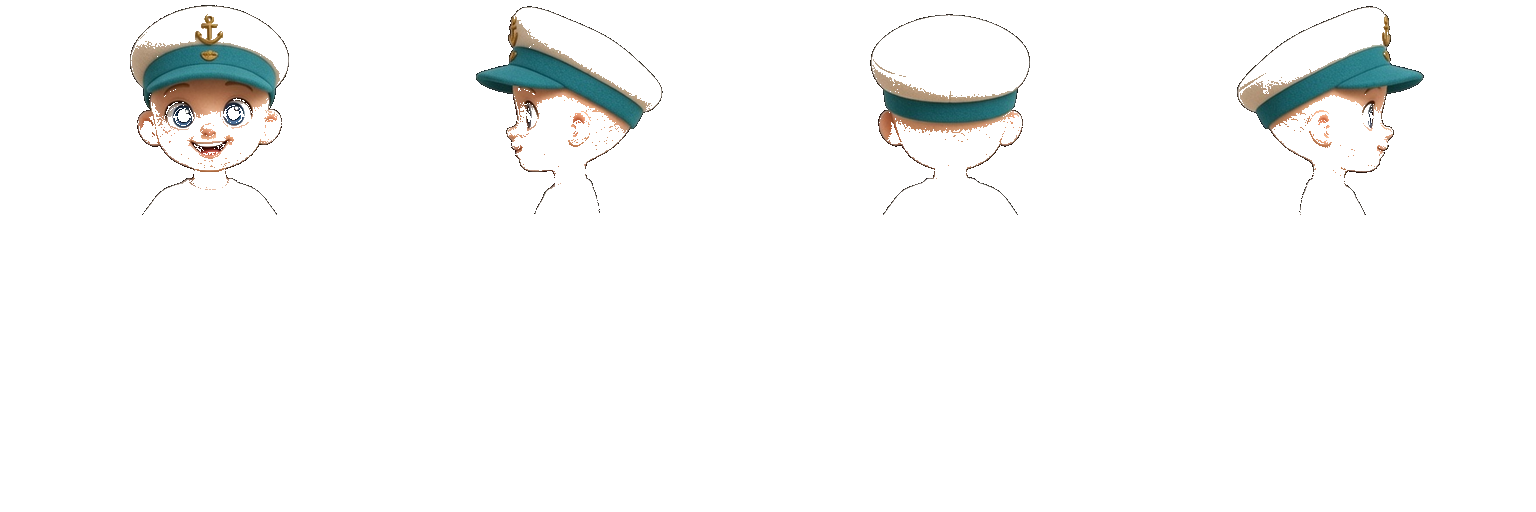
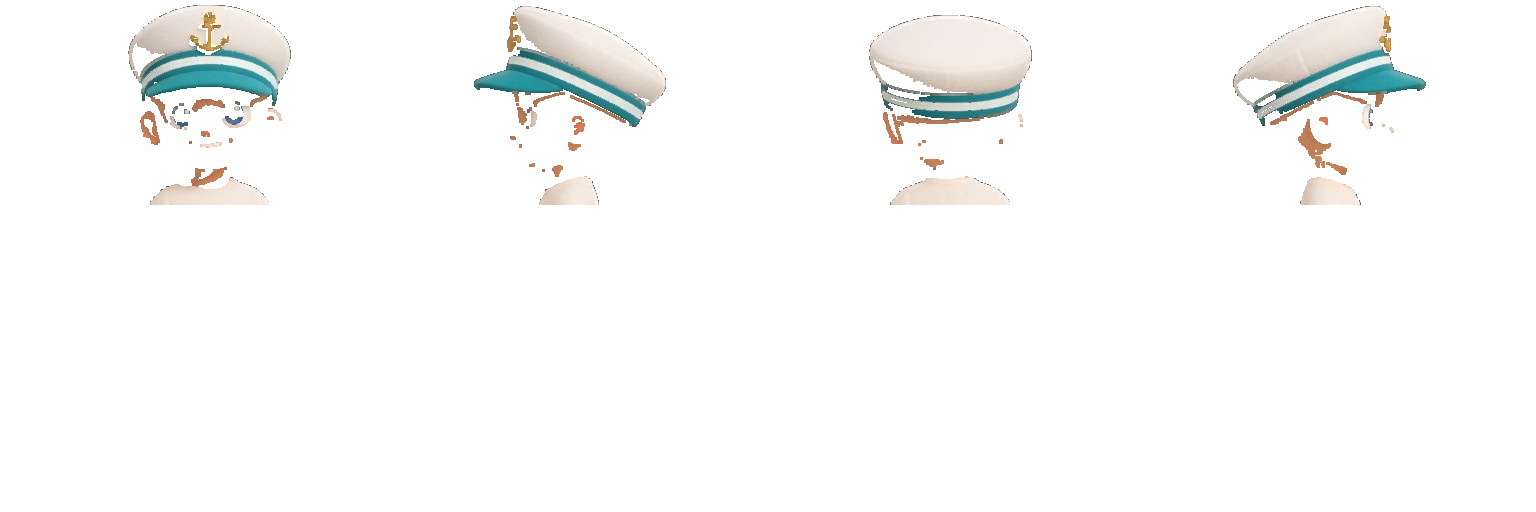
Add doll colour wheels and eight new mix-and-match sets.
Skin and eye chips now stick, plus a free colour wheel. New clothes,
full-head hair, and a complete sailor cap are generated as sheets, not
knocked-out cutouts.

diff --git a/penny-fever/world/paper-dolls.js b/penny-fever/world/paper-dolls.js
@@ -1,5 +1,5 @@
 const ROOT = new URL('../assets/restyle/paper-dolls/', import.meta.url);
-const STORE = 'pf-paper-dolls-v9';
+const STORE = 'pf-paper-dolls-v10';
 const W = 1536, H = 512, CELL = 384;
 const images = new Map();
 const strips = new Map();
@@ -11,16 +11,20 @@ export const SKINS = [
   { id: 'cardboard', label: 'Natural', rgb: null },
   { id: 'fair', label: 'Fair', rgb: [236, 198, 170] },
   { id: 'peach', label: 'Peach', rgb: [224, 172, 132] },
+  { id: 'golden', label: 'Golden', rgb: [210, 154, 96] },
   { id: 'tan', label: 'Tan', rgb: [186, 132, 90] },
+  { id: 'olive', label: 'Olive', rgb: [168, 124, 78] },
   { id: 'brown', label: 'Brown', rgb: [128, 84, 56] },
   { id: 'deep', label: 'Deep', rgb: [78, 50, 36] },
 ];
 export const EYE_COLORS = [
-  { id: 'blue', label: 'Blue', rgb: null },
+  { id: 'blue', label: 'Blue', rgb: [72, 138, 196] },
   { id: 'brown', label: 'Brown', rgb: [86, 52, 32] },
   { id: 'hazel', label: 'Hazel', rgb: [110, 78, 36] },
   { id: 'green', label: 'Green', rgb: [62, 102, 58] },
   { id: 'grey', label: 'Grey', rgb: [96, 104, 112] },
+  { id: 'amber', label: 'Amber', rgb: [176, 112, 36] },
+  { id: 'violet', label: 'Violet', rgb: [96, 72, 150] },
 ];
 export const HAIR_STYLES = [
   { id: 'none', label: 'None' },
@@ -28,6 +32,9 @@ export const HAIR_STYLES = [
   { id: 'bob', label: 'Bob', fit: 'sheet' },
   { id: 'curls', label: 'Curls', fit: 'sheet' },
   { id: 'waves', label: 'Waves', fit: 'sheet' },
+  { id: 'bun', label: 'Bun', fit: 'sheet' },
+  { id: 'braid', label: 'Braid', fit: 'sheet' },
+  { id: 'pixie', label: 'Pixie', fit: 'sheet' },
 ];
 export const HATS = [
   { id: 'none', label: 'None' },
@@ -35,6 +42,9 @@ export const HATS = [
   { id: 'sailor', label: 'Sailor cap' },
   { id: 'rain', label: 'Rain hat' },
   { id: 'crown', label: 'Crown' },
+  { id: 'cowboy', label: 'Cowboy hat' },
+  { id: 'witchhat', label: 'Witch hat' },
+  { id: 'flower', label: 'Flower crown' },
 ];
 export const OUTFITS = [
   { id: 'none', label: 'Undershirt', book: null },
@@ -50,6 +60,14 @@ export const OUTFITS = [
   { id: 'sunday', label: 'Sunday best' },
   { id: 'fortune', label: 'Mystic lilac' },
   { id: 'ballet', label: 'Ballet wrap' },
+  { id: 'cowgirl', label: 'Star dungarees' },
+  { id: 'circus', label: 'Ringmaster' },
+  { id: 'witch', label: 'Plum pinafore' },
+  { id: 'sundae', label: 'Cherry soda' },
+  { id: 'detective', label: 'Trench coat' },
+  { id: 'princess', label: 'Blue sash' },
+  { id: 'mechanic', label: 'Dungarees' },
+  { id: 'florist', label: 'Garden apron' },
 ];
 export const DOLL_PAGES = {
   garden: 'assets/restyle/paper-dolls/pages/garden.jpg',
@@ -78,6 +96,14 @@ export const COLLECTIONS = [
   { id: 'sunday', label: 'Sunday best', page: `${P}/outfits/sunday.png`, pieces: [hair('bob','Bob'), hair('waves','Waves'), clothes('sunday','Navy pinafore')] },
   { id: 'fortune', label: 'Iris’s hour', page: `${P}/outfits/fortune.png`, pieces: [hair('waves','Waves'), hair('bob','Bob'), clothes('fortune','Mystic lilac')] },
   { id: 'ballet', label: 'Ballet', page: `${P}/outfits/ballet.png`, pieces: [hair('bob','Bob'), hair('pigtails','Pigtails'), clothes('ballet','Wrap and tutu')] },
+  { id: 'cowgirl', label: 'Cowgirl', page: `${P}/outfits/cowgirl.png`, pieces: [hair('braid','Braid'), hair('bun','Bun'), hat('cowboy','Cowboy hat'), clothes('cowgirl','Star dungarees')] },
+  { id: 'circus', label: 'Circus', page: `${P}/outfits/circus.png`, pieces: [hair('pixie','Pixie'), hair('curls','Curls'), clothes('circus','Ringmaster')] },
+  { id: 'witch', label: 'Witching hour', page: `${P}/outfits/witch.png`, pieces: [hair('waves','Waves'), hair('bun','Bun'), hat('witchhat','Witch hat'), clothes('witch','Plum pinafore')] },
+  { id: 'sundae', label: 'Soda shop', page: `${P}/outfits/sundae.png`, pieces: [hair('pigtails','Pigtails'), hair('curls','Curls'), clothes('sundae','Cherry soda')] },
+  { id: 'detective', label: 'Clue hunt', page: `${P}/outfits/detective.png`, pieces: [hair('bob','Bob'), hair('pixie','Pixie'), clothes('detective','Trench coat')] },
+  { id: 'princess', label: 'Paper princess', page: `${P}/outfits/princess.png`, pieces: [hair('bun','Bun'), hair('waves','Waves'), hat('flower','Flower crown'), clothes('princess','Blue sash')] },
+  { id: 'mechanic', label: 'Fix-it', page: `${P}/outfits/mechanic.png`, pieces: [hair('pixie','Pixie'), hair('braid','Braid'), clothes('mechanic','Dungarees')] },
+  { id: 'florist', label: 'Flower stall', page: `${P}/outfits/florist.png`, pieces: [hair('braid','Braid'), hair('bun','Bun'), hat('flower','Flower crown'), clothes('florist','Garden apron')] },
 ];
 export const NOSES = [
   { id: 'none', label: 'None' },
@@ -101,8 +127,10 @@ export function blankDraft() {
     id: MINE_ID,
     body: 'girl',
     skin: 'cardboard',
+    skinHex: '',
     hair: 'none',
     eyes: 'blue',
+    eyesHex: '',
     outfit: 'none',
     hat: 'none',
     collection: null,
@@ -160,33 +188,57 @@ function recolorTo(ctx, rgb, {skinOnly=false}={}) {
   ctx.putImageData(data, 0, 0);
 }
 
+function isIrisPixel(r, g, b) {
+  const mx = Math.max(r, g, b), mn = Math.min(r, g, b);
+  if (mx > 230 && mx - mn < 28) return false;
+  if (mx < 40) return false;
+  const blueish = b > r + 4 && b > g - 6 && b > 55;
+  const greenish = g > r + 8 && g > b && g > 50 && mx - mn > 18;
+  const brownish = r > g + 8 && r > b + 16 && r > 50 && g > 20 && b < 90;
+  return blueish || greenish || brownish;
+}
+
 function recolorEyes(ctx, rgb) {
   if (!rgb) return;
   const data = ctx.getImageData(0, 0, W, H);
   const d = data.data;
   const [tr, tg, tb] = rgb;
-  for (let i = 0; i < d.length; i += 4) {
-    if (d[i + 3] < 12) continue;
-    const r = d[i], g = d[i + 1], b = d[i + 2];
-    const mx = Math.max(r, g, b), mn = Math.min(r, g, b);
-    if (b < r + 8 || b <= g) continue;
-    if (mx > 225 && mx - mn < 40) continue;
-    if (mx < 50) continue;
-    const lum = (0.3 * r + 0.59 * g + 0.11 * b) / 140;
-    const lift = 0.35 + lum * 0.85;
-    d[i] = Math.min(255, tr * lift);
-    d[i + 1] = Math.min(255, tg * lift);
-    d[i + 2] = Math.min(255, tb * lift);
+  for (let side = 0; side < 4; side++) {
+    const x0 = side * CELL, x1 = x0 + CELL;
+    const y0 = Math.floor(H * 0.16), y1 = Math.floor(H * 0.42);
+    for (let y = y0; y < y1; y++) {
+      for (let x = x0 + 40; x < x1 - 40; x++) {
+        const i = (y * W + x) * 4;
+        if (d[i + 3] < 12) continue;
+        const r = d[i], g = d[i + 1], b = d[i + 2];
+        if (!isIrisPixel(r, g, b)) continue;
+        const lum = (0.3 * r + 0.59 * g + 0.11 * b) / 140;
+        const lift = 0.38 + lum * 0.8;
+        d[i] = Math.min(255, tr * lift);
+        d[i + 1] = Math.min(255, tg * lift);
+        d[i + 2] = Math.min(255, tb * lift);
+      }
+    }
   }
   ctx.putImageData(data, 0, 0);
 }
 
+function hexRgb(hex) {
+  const h = String(hex || '').replace('#', '');
+  if (h.length !== 6) return null;
+  const n = parseInt(h, 16);
+  if (Number.isNaN(n)) return null;
+  return [(n >> 16) & 255, (n >> 8) & 255, n & 255];
+}
+
 function isSkinPixel(r, g, b) {
   const mx = Math.max(r, g, b), mn = Math.min(r, g, b);
-  if (mx > 210 && mx - mn < 45) return false;
+  if (mx > 248 && mx - mn < 16) return false;
+  if (r > 150 && g > 110 && b < 90 && r - b > 70 && g > b + 30) return false;
   if (b >= r) return false;
-  if (r < g + 6) return false;
-  if ((r + g + b) / 3 < 95) return false;
+  if (r < g + 4) return false;
+  if (r - b < 18) return false;
+  if ((r + g + b) / 3 < 70) return false;
   return true;
 }
 
@@ -353,10 +405,10 @@ export async function composeDoll(spec) {
   const wear = spec.outfit && spec.outfit !== 'none' ? spec.outfit : null;
   const wearImg = wear ? await load(src('outfits', `${wear}.png`)) : bodyImg;
   ctx.drawImage(wearImg, 0, 0, W, H);
-  const skin = SKINS.find(s => s.id === spec.skin);
-  if (skin?.rgb) recolorSkinFromMask(ctx, bodyImg, skin.rgb);
-  const eyes = EYE_COLORS.find(e => e.id === spec.eyes);
-  if (eyes?.rgb) recolorEyes(ctx, eyes.rgb);
+  const skinRgb = hexRgb(spec.skinHex) || SKINS.find(s => s.id === spec.skin)?.rgb;
+  if (skinRgb) recolorSkinFromMask(ctx, bodyImg, skinRgb);
+  const eyeRgb = hexRgb(spec.eyesHex) || EYE_COLORS.find(e => e.id === spec.eyes)?.rgb;
+  if (eyeRgb) recolorEyes(ctx, eyeRgb);
   if (spec.hair && spec.hair !== 'none') {
     const hairImg = await load(src('hair', `${spec.hair}.png`));
     const style = HAIR_STYLES.find(h => h.id === spec.hair);

diff --git a/penny-fever/world/crew-selector.js b/penny-fever/world/crew-selector.js
@@ -1,7 +1,7 @@
 import {
   SKINS, EYE_COLORS, HAIR_STYLES, HATS, OUTFITS,
   MINE_ID, blankDraft, composeDoll, keepMine, getMine, preloadDollArt,
-} from './paper-dolls.js?v=doll-tray-1';
+} from './paper-dolls.js?v=doll-wheel-1';
 
 export const CREW_IDS = ['bluebell', 'ruby', 'violet', 'oliver', 'sunny', 'rowan'];
 const key = 'pf-selected-crew-v1';
@@ -97,6 +97,10 @@ function paintDraft() {
   document.querySelectorAll('[data-doll-key]').forEach(b => {
     b.setAttribute('aria-pressed', String(spec[b.dataset.dollKey] === b.dataset.dollVal));
   });
+  const skinWheel = document.getElementById('skinWheel');
+  const eyesWheel = document.getElementById('eyesWheel');
+  if (skinWheel && spec.skinHex) skinWheel.value = spec.skinHex;
+  if (eyesWheel && spec.eyesHex) eyesWheel.value = spec.eyesHex;
 
   const stage = document.getElementById('dollPreviewImg');
   composeDoll(spec).then(url => {
@@ -155,7 +159,16 @@ function turnDoll(dir) {
 }
 
 function setPart(key, val) {
-  boot.draft = { ...boot.draft, [key]: val };
+  const next = { ...boot.draft, [key]: val };
+  if (key === 'skin') next.skinHex = '';
+  if (key === 'eyes') next.eyesHex = '';
+  boot.draft = next;
+  paintDraft();
+}
+
+function setWheel(kind, hex) {
+  if (kind === 'skin') boot.draft = { ...boot.draft, skin: 'custom', skinHex: hex };
+  if (kind === 'eyes') boot.draft = { ...boot.draft, eyes: 'custom', eyesHex: hex };
   paintDraft();
 }
 
@@ -282,7 +295,9 @@ function mount() {
   </div>
   <div class="doll-maker-parts">
     ${optionRow('Skin', 'skin', SKINS, true)}
+    <label class="doll-wheel">Any skin <input type="color" id="skinWheel" value="#e0ac84" aria-label="Skin colour wheel"></label>
     ${optionRow('Eyes', 'eyes', EYE_COLORS, true)}
+    <label class="doll-wheel">Any eyes <input type="color" id="eyesWheel" value="#488ac4" aria-label="Eye colour wheel"></label>
   </div>
 </div>
 <div class="doll-tray">
@@ -303,6 +318,8 @@ function mount() {
       const b = e.target.closest('[data-crew]');
       if (b) chooseCrew(b.dataset.crew);
     });
+    book.querySelector('#skinWheel')?.addEventListener('input', e => setWheel('skin', e.target.value));
+    book.querySelector('#eyesWheel')?.addEventListener('input', e => setWheel('eyes', e.target.value));
     book.addEventListener('close', () => document.getElementById('editCrew')?.focus());
     const doll = book.querySelector('#crewRunwayDoll');
     if (doll) {

diff --git a/penny-fever/index.html b/penny-fever/index.html
@@ -51,8 +51,8 @@
   <link rel="stylesheet" href="vendors/pass.css?v=interior-cam-1">
   <link rel="stylesheet" href="world/ticket-till.css?v=booth-till-1">
   <script type="module" src="world/alley.js?v=doll-tray-1"></script>
-  <script type="module" src="world/crew-selector.js?v=doll-tray-1"></script>
-  <link rel="stylesheet" href="world/crew-selector.css?v=doll-tray-1">
+  <script type="module" src="world/crew-selector.js?v=doll-wheel-1"></script>
+  <link rel="stylesheet" href="world/crew-selector.css?v=doll-wheel-1">
   <link rel="stylesheet" href="restyle.css?v=aura-tools-1">
   <link rel="stylesheet" href="world/paper-game-booths.css?v=type-up-1">
 </head>
@@ -191,7 +191,7 @@
       }
       var s = document.createElement('script');
       s.type = 'module';
-      s.src = 'world/crew-selector.js?v=doll-tray-1';
+      s.src = 'world/crew-selector.js?v=doll-wheel-1';
       s.onload = function () {
         if (window.PennyFeverDoll && window.PennyFeverDoll.open) window.PennyFeverDoll.open(e);
       };

diff --git a/penny-fever/world/crew-selector.css b/penny-fever/world/crew-selector.css
@@ -29,6 +29,8 @@ dialog.crew-book.is-open,dialog.crew-book[open]{display:block;position:fixed;ins
 .doll-chip[aria-pressed=true]{border:2px solid #435637;background:#e4e9da}
 .doll-chip.is-swatch{width:30px;height:30px;padding:0;border-radius:50%;text-indent:-99px;overflow:hidden;background:var(--swatch,#c4a06a);border:2px solid #fffaf0;box-shadow:0 0 0 1px #c4a46a}
 .doll-chip.is-swatch[aria-pressed=true]{box-shadow:0 0 0 3px #435637}
+.doll-wheel{display:inline-flex;align-items:center;gap:8px;margin:0 0 10px;font:13px Georgia;color:#6b4e2e}
+.doll-wheel input[type=color]{width:42px;height:28px;padding:0;border:1px solid #c4a46a;background:#fffaf0;cursor:pointer}
 .doll-preview-stage{width:120px;height:160px;overflow:hidden;background:#f3e6c8;border:1px solid #d4b882;border-radius:8px;filter:drop-shadow(0 6px 8px #0003)}
 .doll-preview-stage img{display:block;height:100%;width:400%;max-width:none;object-fit:fill}
 .crew-book button:focus-visible{outline:3px solid #853f50;outline-offset:3px}
